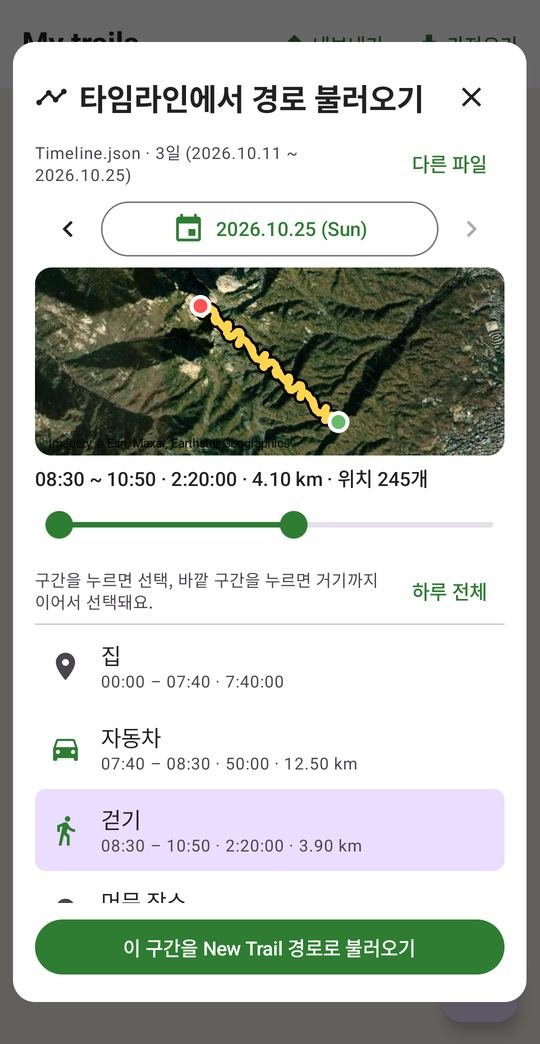
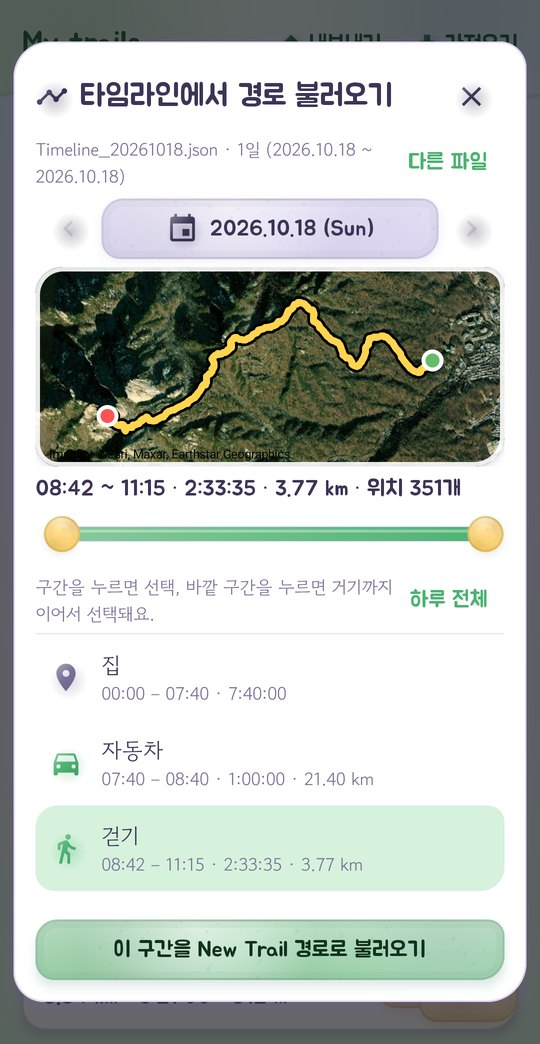
홍보페이지: 타임라인 사진·동영상 자동 가져오기 등 최신 기능 반영
- 구글 타임라인 섹션에 그 시간에 찍은 사진·동영상 자동 찾기·일괄 선택 소개, 새 화면 2장
- 사진·동영상, 영상 만들기, 코스 공유 섹션에 빠진 기능 추가
- 자주 묻는 질문 2개 추가 (기록을 깜빡했을 때, 사진·동영상 권한)
- 개인정보처리방침에 사진 및 동영상 권한 설명 추가

diff --git a/index.html b/index.html
@@ -4,7 +4,7 @@
 <meta charset="utf-8">
 <meta name="viewport" content="width=device-width, initial-scale=1, viewport-fit=cover">
 <title>MyTrail 산행 하이라이트 영상 앱</title>
-<meta name="description" content="GPS로 기록한 산행이 위성지도 위 하이라이트 영상이 됩니다. 사진은 찍은 자리에서, 메모는 손글씨로. 회원가입·광고 없는 안드로이드 앱.">
+<meta name="description" content="GPS로 기록한 산행이 위성지도 위 하이라이트 영상이 됩니다. 기록을 깜빡한 날은 구글 타임라인과 그 시간에 찍은 사진으로. 사진은 찍은 자리에서, 메모는 손글씨로. 회원가입·광고 없는 안드로이드 앱.">
 <meta name="theme-color" content="#14301c">
 <!-- 링크 미리보기(카카오톡·SNS)용. 호스팅한 뒤 og:image와 og:url을 전체 주소(https://...)로 바꿔 주세요. -->
 <meta property="og:type" content="website">
@@ -276,7 +276,7 @@
         </li>
         <li>
           <div class="thumb"><img src="img/screen_place.jpg" alt="사진 위치 지정 화면: 사진과 메모, 경로 위 위치" loading="lazy"></div>
-          <div><h3>사진·동영상 얹기</h3><p>갤러리에서 고르면 찍은 시각에 맞춰 경로 위 자리를 찾아 줘요. 한 줄 메모도 남겨 보세요.</p></div>
+          <div><h3>사진·동영상 얹기</h3><p>산행 중에 앱으로 바로 찍거나 갤러리에서 고르면, 찍은 시각에 맞춰 경로 위 자리를 찾아 줘요. 한 줄 메모도 남겨 보세요.</p></div>
         </li>
         <li>
           <div class="thumb"><img src="img/video_26_5.jpg" alt="완성된 영상의 마지막 장면: 전체 경로와 3.77 km, 2:33:35, 691 m" loading="lazy"></div>
@@ -292,8 +292,11 @@
         <span class="eyebrow">사진 · 동영상</span>
         <h2>내가 찍은 장소가<br>사진으로 펼쳐져요</h2>
         <ul class="points">
-          <li><b>촬영 시각</b>으로 경로내 위치를 찾아 줘요. 시각이 맞지 않으면 사진의 위치 정보로 찾아요.</li>
+          <li><b>촬영 시각</b>으로 경로 위 위치를 찾아 줘요. 시각이 맞지 않으면 사진의 위치 정보로 찾아요.</li>
+          <li>산행 중에 앱으로 <b>바로 찍으면</b> 찍은 자리가 함께 저장돼요.</li>
+          <li>갤러리 동영상은 <b>최대 1분</b>까지 잘라 넣어요. 동영상 소리가 나오는 동안 배경음악은 저절로 작아져요.</li>
           <li>사진마다 40자 메모를 남기면 영상에 <b>손글씨</b>로 나와요.</li>
+          <li>사진·동영상은 찍은 순서대로 정리되고, 지운 것은 휴지통에서 되살릴 수 있어요.</li>
         </ul>
         <p class="hand">"돌계단 시작! 아직은 웃는 중"</p>
       </div>
@@ -313,6 +316,7 @@
           <li>무료 음원 목록에서 미리 듣고 고르고, <b>페이드 인·아웃</b> 시간을 정해요.</li>
           <li>차로 멀리 간 날도 산행 구간에서는 <b>지도가 저절로 확대</b>돼 발걸음이 잘 보여요.</li>
           <li>제목·날짜·<b>함께한 사람</b>이 나오는 오프닝으로 시작해요.</li>
+          <li>상승고도와 <b>고도 그래프</b>를 영상에 넣을지도 골라요.</li>
         </ul>
       </div>
       <div class="shots pair">
@@ -326,15 +330,18 @@
     <div class="wrap feature">
       <div class="copy">
         <span class="eyebrow">구글 타임라인</span>
-        <h2>기록을 깜빡한 날도<br>괜찮아요</h2>
+        <h2>기록을 깜빡한 날도<br>사진까지 한 번에</h2>
         <ul class="points">
           <li>구글 지도 <b>타임라인에서 내보낸 파일</b>을 열면 날짜별로 걷기·이동·머문 장소가 나와요.</li>
           <li>위성지도로 확인하면서 <b>필요한 구간만</b> 골라 Trail로 만들어요.</li>
-          <li>만든 Trail에도 사진을 얹고 영상을 만들 수 있어요.</li>
+          <li>그 시간에 찍은 사진·동영상을 갤러리에서 <b>자동으로 찾아</b> 줘요. 출발 전·도착 후 10분 사진까지 보여 줘서 등산로 입구 사진도 놓치지 않아요.</li>
+          <li>넣을 것만 <b>한꺼번에 골라 담으면</b> 찍은 시각에 맞춰 경로 위에 놓여요.</li>
         </ul>
+        <p class="hand">"한 장씩 고를 필요 없이 쏙!"</p>
       </div>
-      <div class="shots">
-        <div class="device"><img src="img/screen_timeline.jpg" alt="타임라인에서 경로 불러오기 화면: 날짜, 위성지도 미리보기, 걷기 구간 선택" loading="lazy"></div>
+      <div class="shots pair">
+        <div class="device"><img src="img/screen_gallery.jpg" alt="가져올 사진·동영상 화면: 경로 시간 08:42~11:15에 찍은 사진 6장과 동영상 1개가 선택되어 있고, 출발 전 10분 사진은 빠져 있음" loading="lazy"></div>
+        <div class="device back"><img src="img/screen_timeline.jpg" alt="타임라인에서 경로 불러오기 화면: 2026.10.18 위성지도 미리보기와 집·자동차·걷기 구간 목록" loading="lazy"></div>
       </div>
     </div>
   </section>
@@ -347,6 +354,7 @@
         <ul class="points">
           <li>경로를 <span class="file">.trailpath</span> 파일로 내보내 친구에게 보내요.</li>
           <li>받은 코스를 불러오면 기록 지도에 <b>파란 선</b>으로 함께 보여요.</li>
+          <li>시작점이 지금 위치에서 5km 넘게 떨어진 코스는 불러오기 전에 알려 줘요.</li>
         </ul>
       </div>
       <div class="shots">
@@ -404,6 +412,8 @@
       <div class="faq">
         <details><summary>정말 무료인가요?</summary><p>네. 다운로드와 모든 기능이 무료이고 광고도 없어요.</p></details>
         <details><summary>아이폰에서도 쓸 수 있나요?</summary><p>지금은 안드로이드 8.0 이상 휴대폰에서만 쓸 수 있어요.</p></details>
+        <details><summary>기록 시작을 깜빡했어요.</summary><p>구글 지도에서 타임라인을 파일로 내보낸 뒤, New Trail의 '타임라인에서 경로 불러오기'로 열면 그날 걸은 구간을 Trail로 만들 수 있어요. 그 시간에 찍은 사진·동영상도 갤러리에서 찾아 함께 넣어 줘요.</p></details>
+        <details><summary>사진·동영상 접근 권한은 왜 묻나요?</summary><p>타임라인으로 Trail을 만들 때 그 시간에 찍은 사진·동영상을 찾기 위해서예요. 허용하지 않아도 다른 기능은 그대로 쓸 수 있고, 일부 사진만 허용할 수도 있어요. 찾은 사진은 기기 밖으로 보내지 않아요.</p></details>
         <details><summary>산에서 인터넷이 안 터지면요?</summary><p>GPS 기록은 인터넷 없이도 계속돼요. 위성지도와 배경음악 목록은 인터넷이 될 때 받아요.</p></details>
         <details><summary>휴대폰을 바꾸면 기록이 없어지나요?</summary><p>My trails의 '내보내기'로 산행을 골라 .mytrail 파일을 만든 뒤, 새 휴대폰에서 '가져오기'로 열면 사진·동영상까지 그대로 옮겨져요.</p></details>
         <details><summary>만든 영상은 어디에 저장되나요?</summary><p>갤러리의 Movies/MyTrail 폴더에 저장돼요. 만든 직후 바로 공유할 수도 있어요.</p></details>

diff --git a/privacy.html b/privacy.html
@@ -55,6 +55,7 @@
         <tr><td>사용자가 고른 사진·동영상</td><td>경로 위에 배치하고 하이라이트 영상에 넣기. 촬영 시각과 위치 정보(있는 경우)를 읽어 위치를 추천</td><td>원본은 갤러리에 그대로 두고 앱은 참조만 저장. '가져오기'로 받은 파일은 앱 저장공간에 복사</td></tr>
         <tr><td>제목, 함께한 사람 이름, 사진 메모</td><td>목록과 영상에 표시</td><td>휴대폰 안 앱 저장공간</td></tr>
         <tr><td>구글 타임라인 파일</td><td>사용자가 고른 파일에서 경로를 읽어 Trail 만들기</td><td>읽기만 하며 외부로 보내지 않음</td></tr>
+        <tr><td>타임라인 경로 시간에 찍은 갤러리 사진·동영상</td><td>타임라인으로 Trail을 만들 때 그 시간에 찍은 사진·동영상을 촬영 시각으로 찾아 보여 주고, 사용자가 고른 것만 Trail에 넣기</td><td>원본은 갤러리에 그대로 두고 앱은 참조만 저장. 외부로 보내지 않음</td></tr>
       </tbody>
     </table>
   </div>
@@ -88,8 +89,9 @@
     <li><b>위치</b>: 산행 경로 기록과 '기존 경로 따라가기'의 출발점 거리 확인</li>
     <li><b>알림</b>: 기록 중임을 알리는 알림 표시</li>
     <li><b>인터넷</b>: 지도와 배경음악 목록 받기</li>
+    <li><b>사진 및 동영상</b>: 구글 타임라인으로 Trail을 만들 때, 그 경로 시간에 찍은 사진·동영상을 갤러리에서 찾기. 허용하지 않아도 다른 기능은 그대로 쓸 수 있고, Android 14 이상에서는 일부 사진만 허용할 수도 있습니다.</li>
   </ul>
-  <p>사진·동영상은 시스템 사진 선택 창을 통해 사용자가 고른 파일에만 접근합니다.</p>
+  <p>'사진 추가'·'동영상 추가'는 시스템 사진 선택 창을 통해 사용자가 고른 파일에만 접근합니다. 사진 및 동영상 권한으로 찾은 파일도 사용자가 고른 것만 Trail에 연결되며, 기기 밖으로 보내지 않습니다.</p>
 
   <h2>7. 방침의 변경</h2>
   <p>내용이 바뀌면 이 페이지에 시행일과 함께 알립니다.</p>
